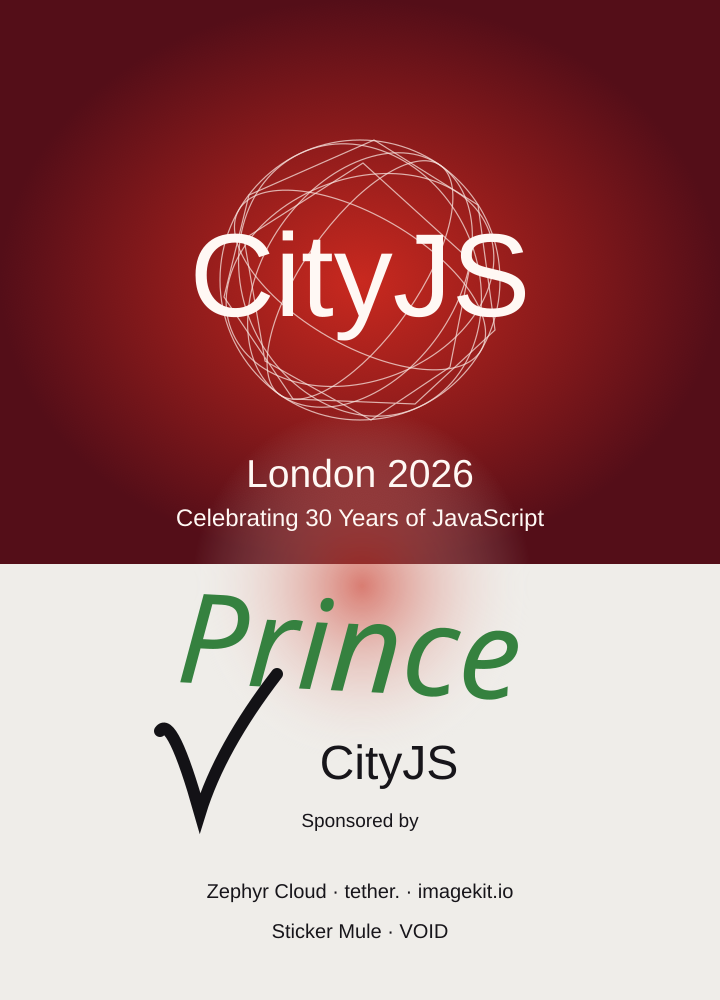
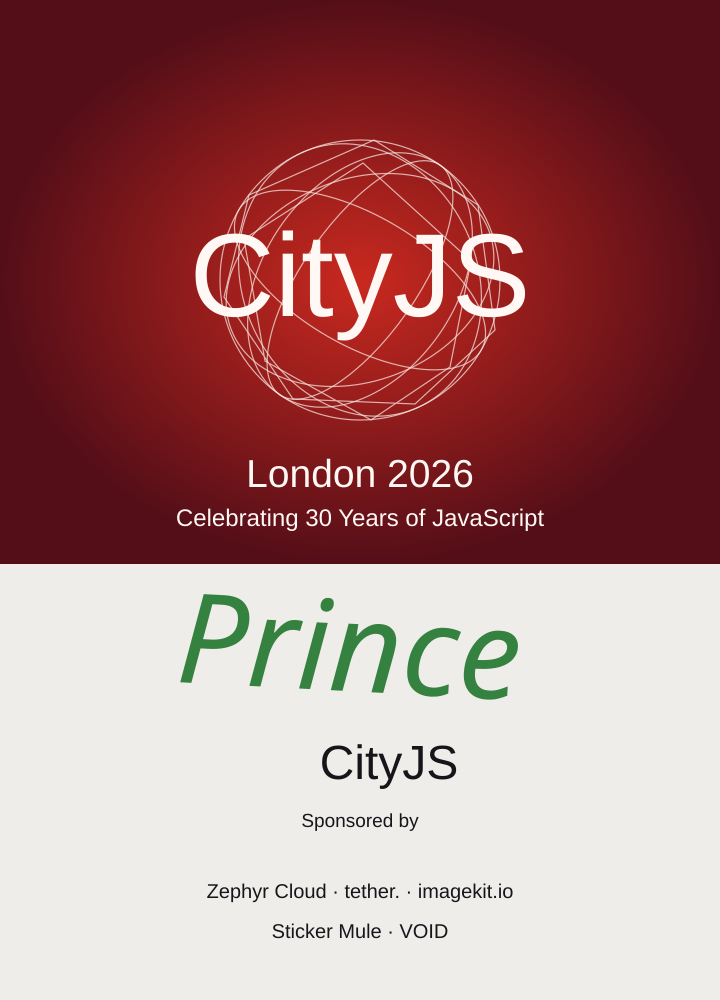
Space Solana button labels and clean up the CityJS pass

Changed region(s): [[0.2444, 0.434, 0.7028, 0.837], [0.2139, 0.713, 0.2444, 0.744]]

diff --git a/docs/PROGRESS.md b/docs/PROGRESS.md
@@ -173,3 +173,9 @@ Touch drag and release, native scrolling, keyboard flipping, reduced motion, foc
 ## Solana mobile control spacing
 
 The pickup hint sits on its own row, 12 pixels below Use badge and the face controls. Mobile WebKit and Chromium emulation verified the spacing from 320 to 600 pixels wide, plus the reading, operating and put-down states and keyboard face selection. ESLint, TypeScript and the isolated webpack build passed. The local Turbopack CSS worker could not bind its socket.
+
+## Solana button legends and CityJS front
+
+All six Solana legends are centered beneath their button caps on the operating case, hanging pass and enlarged print. The CityJS front retains the green handwritten name and removes the check mark and ink smudge. Both front textures and hanging views were regenerated.
+
+Mobile Chromium and WebKit emulation verified clearance and touch-target alignment at 320, 393 and 430 pixels, opening Guide with the controls, and the CityJS index, hanging and print views. Touch drag and release, native scrolling and keyboard face selection also passed in Chromium. ESLint, TypeScript and an isolated webpack production build passed. The local Turbopack CSS worker could not bind its socket. Physical handset testing remains outstanding.
